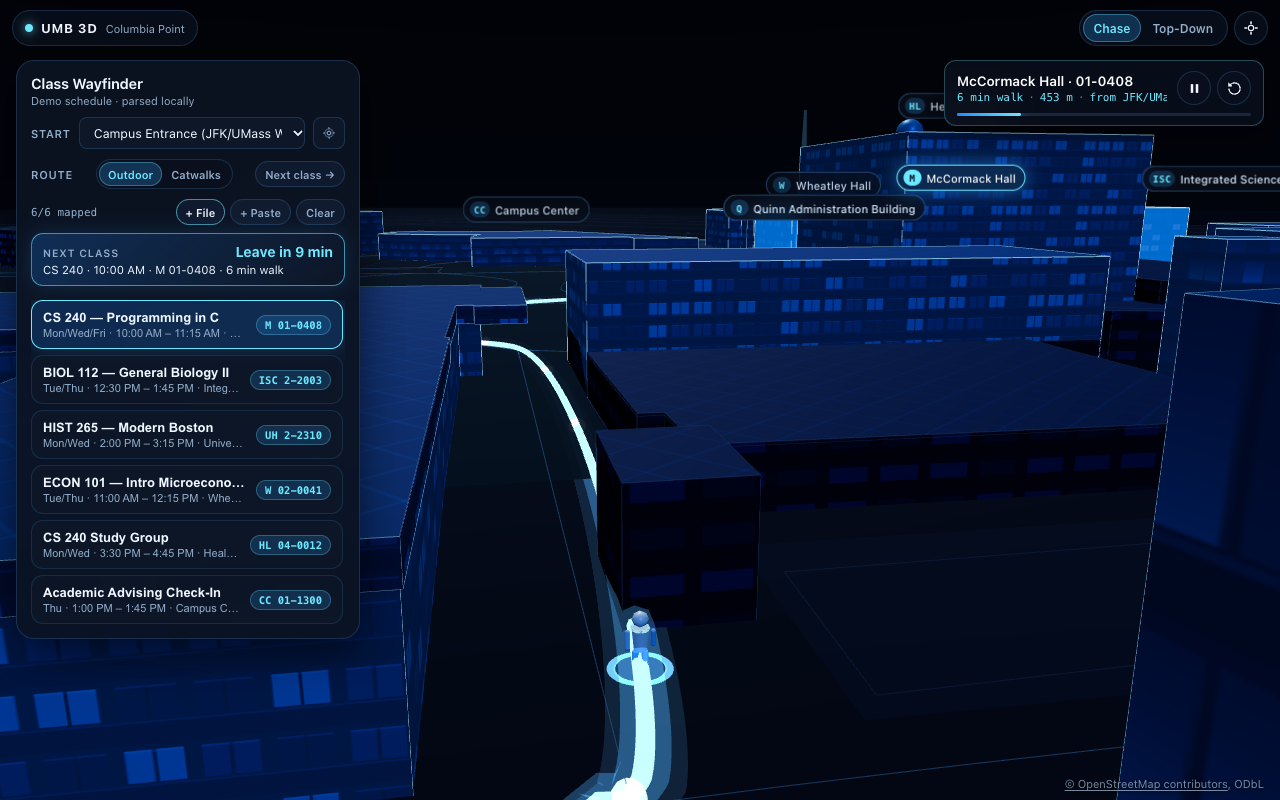
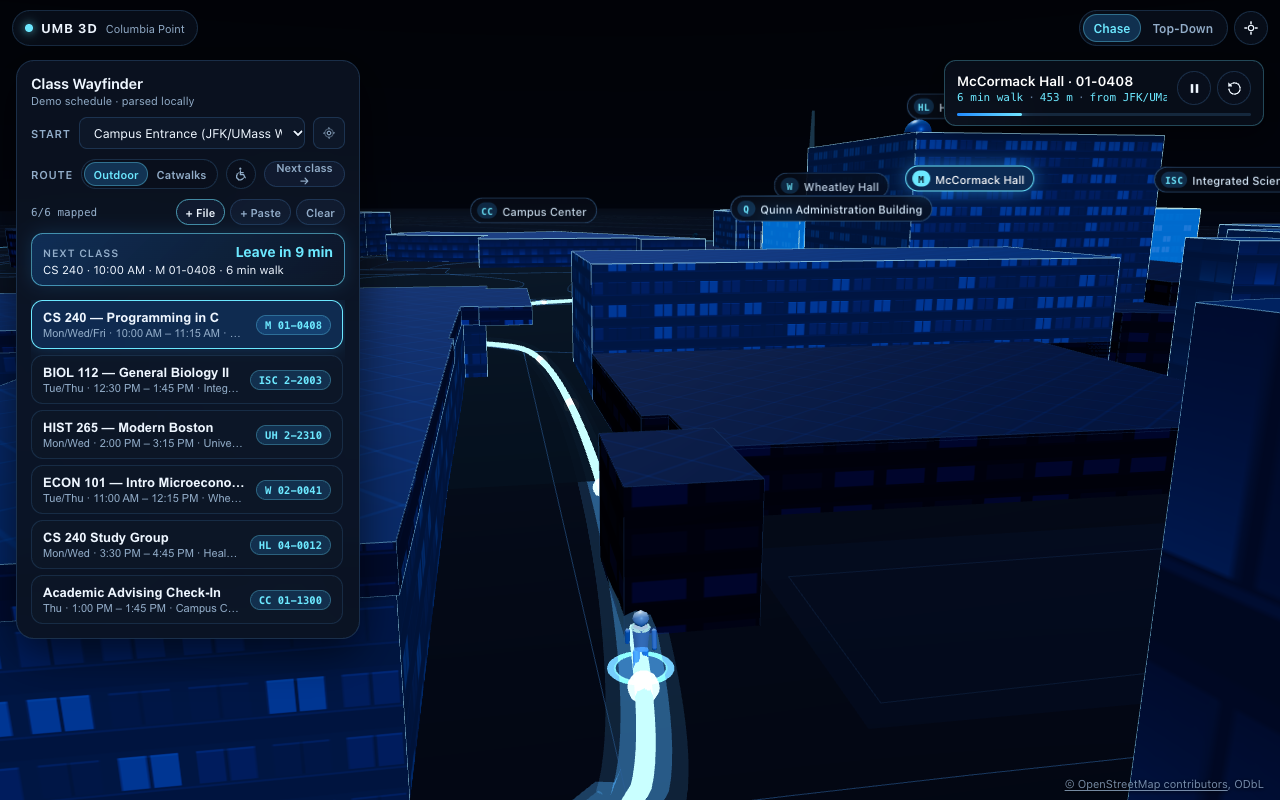
docs: demo GIF, link-preview image, and How It Works section
- docs/screenshots/demo.gif: 19 s phone capture (demo schedule, chase route, top-down, next class)
- public/og-image.png + Open Graph / Twitter card meta tags for link previews
- README: How It Works walkthrough, test/eval scripts, and fix the fetch-osm description
  (it uses the OSM API, not Overpass)
- refresh mobile/desktop screenshots to show the step-free toggle

diff --git a/index.html b/index.html
@@ -14,6 +14,18 @@
       name="description"
       content="Phone-first 3D UMass Boston campus wayfinding PWA. Load your class schedule locally and follow a 3D FSD-style walking route to class."
     />
+    <meta property="og:type" content="website" />
+    <meta property="og:title" content="UMB Campus 3D — walk to class in 3D" />
+    <meta
+      property="og:description"
+      content="Load your UMass Boston schedule and follow a glowing 3D route to the right door. Runs entirely on your device."
+    />
+    <meta property="og:url" content="https://sdefendre.github.io/umb-campus-3d/" />
+    <meta property="og:image" content="https://sdefendre.github.io/umb-campus-3d/og-image.png" />
+    <meta property="og:image:width" content="1200" />
+    <meta property="og:image:height" content="630" />
+    <meta property="og:image:alt" content="UMB Campus 3D: a phone showing a glowing walking route across the UMass Boston campus" />
+    <meta name="twitter:card" content="summary_large_image" />
     <link rel="manifest" href="./manifest.webmanifest" />
     <link rel="icon" type="image/png" sizes="192x192" href="./icons/icon-192.png" />
     <link rel="apple-touch-icon" href="./icons/icon-192.png" />

diff --git a/README.md b/README.md
@@ -6,6 +6,10 @@ Load your class schedule (`.ics`, `.pdf`, or pasted text) or tap **Try demo sche
 
 **Live App:** [https://sdefendre.github.io/umb-campus-3d/](https://sdefendre.github.io/umb-campus-3d/)
 
+<p align="center">
+  <img src="docs/screenshots/demo.gif" alt="Demo: loading the demo schedule, following the route to McCormack Hall, switching to top-down, then stepping to the next class" width="280" />
+</p>
+
 ![Desktop FSD Chase View](docs/screenshots/desktop-1280x800.png)
 
 <p align="center">
@@ -35,6 +39,16 @@ Load your class schedule (`.ics`, `.pdf`, or pasted text) or tap **Try demo sche
   - A **Next class** card finds your next in-person meeting from the schedule's days and times. It shows **Leave in N min** using the walk time from your chosen start or live GPS, and it updates every 30 s. Loading a schedule opens the route to that class. Tap the card to route to it again.
 - **Step-Free Routing:** the wheelchair toggle next to Outdoor/Catwalks avoids the 23 mapped stair ways (`highway=steps`) and the 11 mapped raised kerbs or `wheelchair=no` points. It skips doors tagged `wheelchair=no` and uses `wheelchair=yes` doors when a building has one (today that's Healey's elevator entrance). Step-free routing only knows what OSM maps. Untagged curbs, broken elevators and slopes are invisible to it, so treat it as guidance, not a guarantee.
 - **Phone-First Installable PWA:** Designed for `390x844` mobile viewports with `viewport-fit=cover`, `env(safe-area-inset-*)` padding, web app manifest, icons, and an offline-capable service worker, scaling cleanly to desktop screens.
+
+## How It Works
+
+1. **Campus data, fetched once.** `scripts/fetch-osm.mjs` downloads the campus bounding box from the OpenStreetMap API (buildings, footways, doors, kerbs, coastline, lawns) and joins in City of Boston LiDAR roof heights. It writes one static file, `public/data/umb-campus.geojson`, which is committed to the repo. The app never calls a map API at runtime.
+2. **Lat/lon to meters.** A local tangent-plane projection (`src/geo.ts`) turns coordinates into meters around a campus origin. Across a 2 km campus the error is under 10 cm.
+3. **Walking graph.** OSM footways become a weighted graph (`src/graph.ts`). Segments that cross a building footprint are marked sheltered, which is how the Outdoor and Catwalks modes differ. Stairs and raised kerbs are flagged for step-free mode.
+4. **Door-to-door A\*.** Each OSM door is attached to the building outline it sits on. A route runs A\* to every usable door and keeps the shortest. When a building has no reachable door, the route ends at the footway closest to the building's center instead.
+5. **Schedules stay in the tab.** `.ics` files go through `ical.js`, PDFs through a bundled `pdfjs-dist` worker, and pasted text through regular expressions. An alias table maps room codes like `M-01-0408` or `ISC 2-2003` to buildings. Days and start times drive the **Next class** countdown (`src/nextClass.ts`).
+6. **Rendering.** three.js extrudes the footprints with procedural canvas facades and edge outlines, draws the route as layered glowing tubes, and moves a low-poly avatar along it with a damped chase camera.
+7. **Checked on every change.** `npm run eval` loads the built app in headless Chrome. It uploads `.ics`, `.pdf` and pasted fixtures containing sentinel strings, then fails if any request leaves the origin or any sentinel appears in storage. It also scores parsing, route correctness against an independent Dijkstra, phone FPS, Lighthouse and bundle size.
 
 ## Privacy
 
@@ -70,7 +84,9 @@ npm run dev
 - `npm run typecheck` — Run `tsc --noEmit`
 - `npm run build` — Typecheck and build static production bundle into `dist/`
 - `npm run preview` — Preview the production build locally
-- `npm run fetch-osm` — Regenerate `public/data/umb-campus.geojson` from OpenStreetMap via the Overpass API
+- `npm test` — Run the Vitest unit tests (including route checks on the committed campus data)
+- `npm run eval` — Full scored evaluation with the privacy audit (needs Google Chrome installed locally)
+- `npm run fetch-osm` — Regenerate `public/data/umb-campus.geojson` from the OpenStreetMap API and City of Boston open data
 
 ## Data Attribution & License
 
